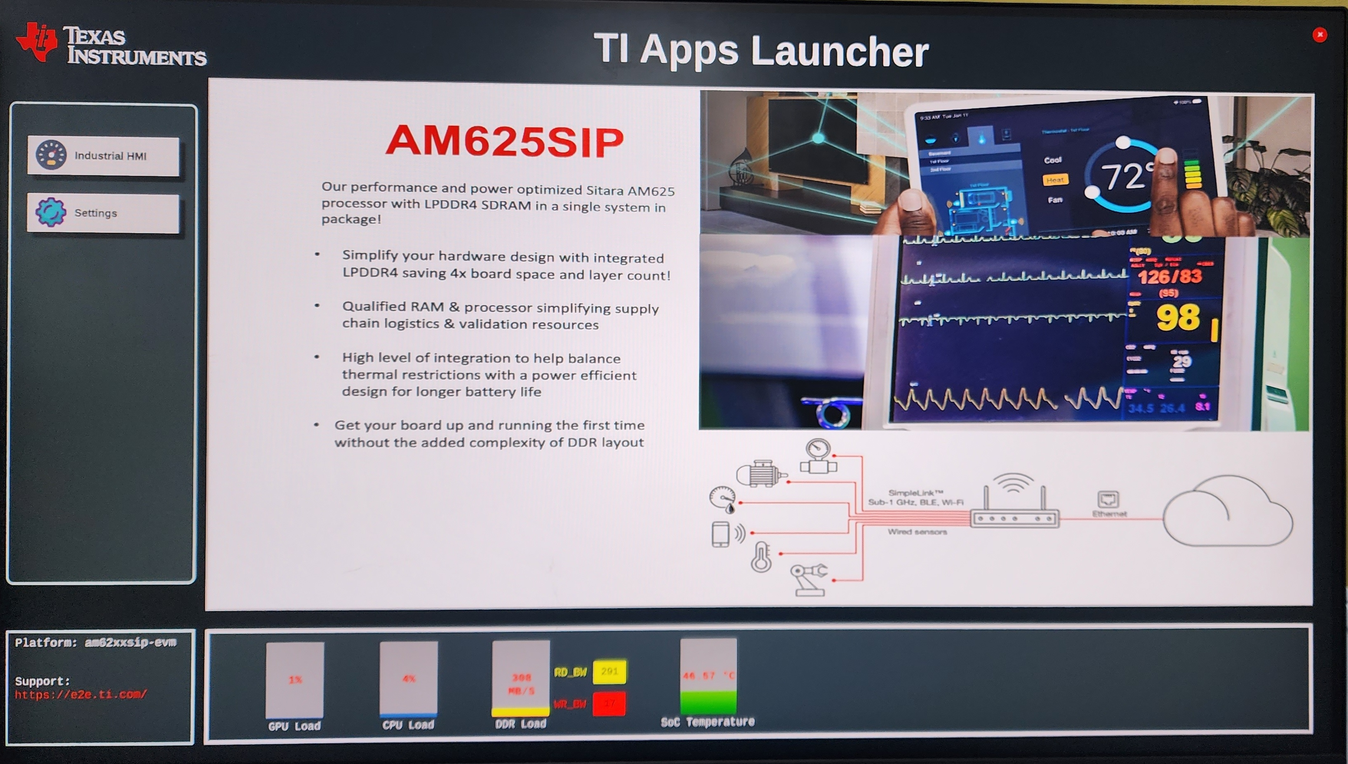
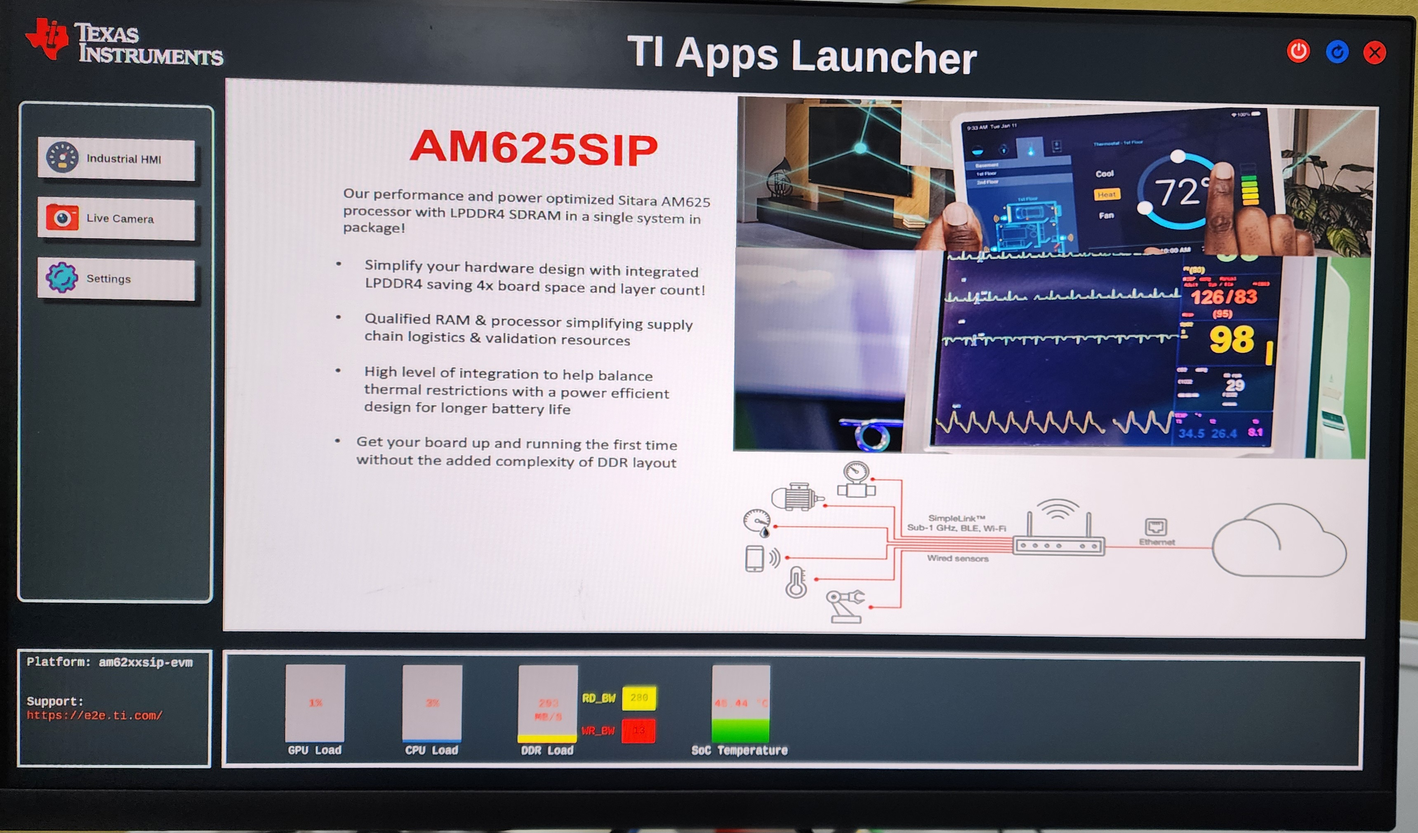
TI Apps Launcher: Update landing page screenshots for SITARA platforms
- The ti-apps-launcher OOB is now different for AM62P & AM62x. Hence, add
seperate images.

- Update the ti-apps-launcher-home-page images for AM62P, AM62X & AM62SIP.

diff --git a/source/system/Demo_User_Guides/TI_Apps_Launcher_User_Guide.rst b/source/system/Demo_User_Guides/TI_Apps_Launcher_User_Guide.rst
@@ -74,22 +74,25 @@ The TI Apps Launcher launches on Linux startup. Follow the below instructions to
 
 2. Insert the flashed SD card to the board, connect the display, mouse, ethernet cable, keyboard and power on the TI |__PART_FAMILY_DEVICE_NAMES__| SK. The TI Apps Launcher will launch automatically when the device is fully booted.
 
-.. ifconfig:: CONFIG_sdk in ('PLSDK')
+.. ifconfig:: CONFIG_part_variant in ('AM62X')
 
-   .. Image:: /images/ti-apps-launcher-home.png
+   .. Image:: /images/ti-apps-launcher-home-am62x.png
+      :height: 400
+
+   .. note::
+
+     TI-Apps-Launcher on AM62SIP is minimal due to it's memory constraints. This experience on AM62SIP looks like the following.
+
+
+     .. Image:: /images/ti-apps-launcher-home-am62sip.jpg
+        :height: 400
+
+.. ifconfig:: CONFIG_part_variant in ('AM62PX')
+
+   .. Image:: /images/ti-apps-launcher-home-am62px.png
       :height: 400
 
    |
-
-   .. ifconfig:: CONFIG_part_variant in ('AM62X')
-
-        .. note::
-
-            TI-Apps-Launcher on AM62SIP is minimal due to it's memory constraints. This experience on AM62SIP looks like the following.
-
-
-        .. Image:: /images/ti-apps-launcher-home-am62sip.jpg
-          :height: 400
 
 .. ifconfig:: CONFIG_sdk in ('j7_foundational')
 
